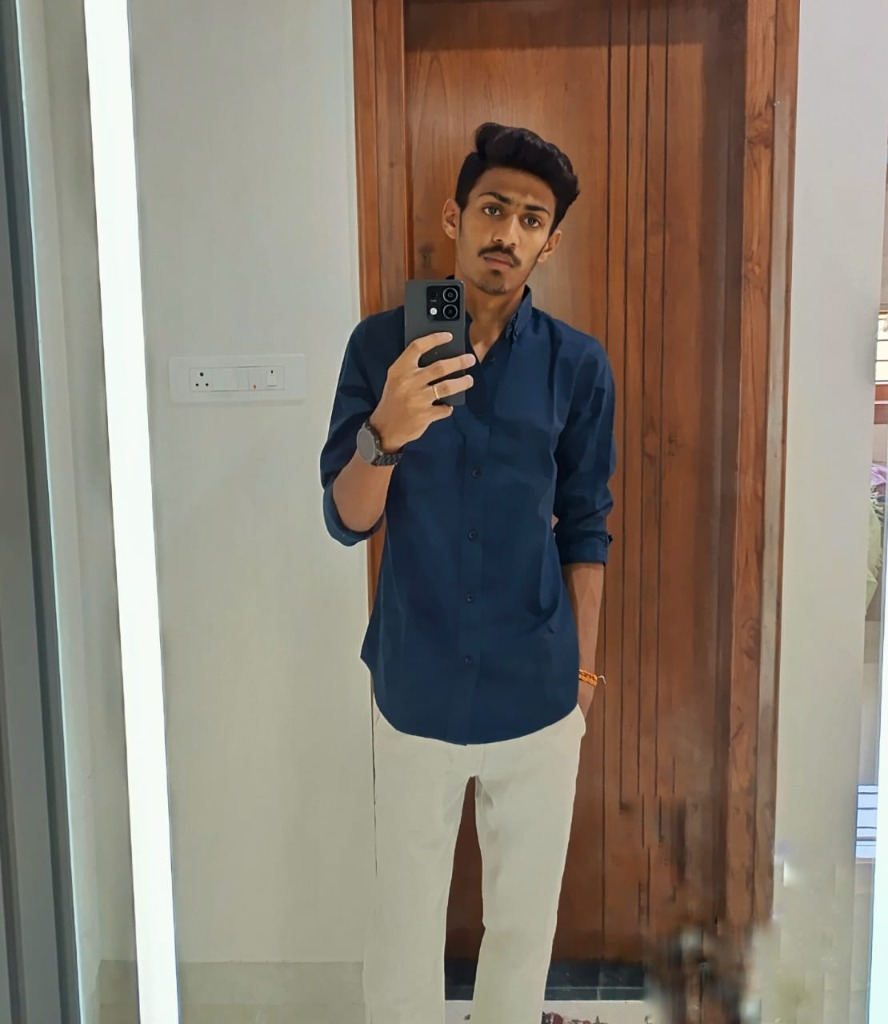
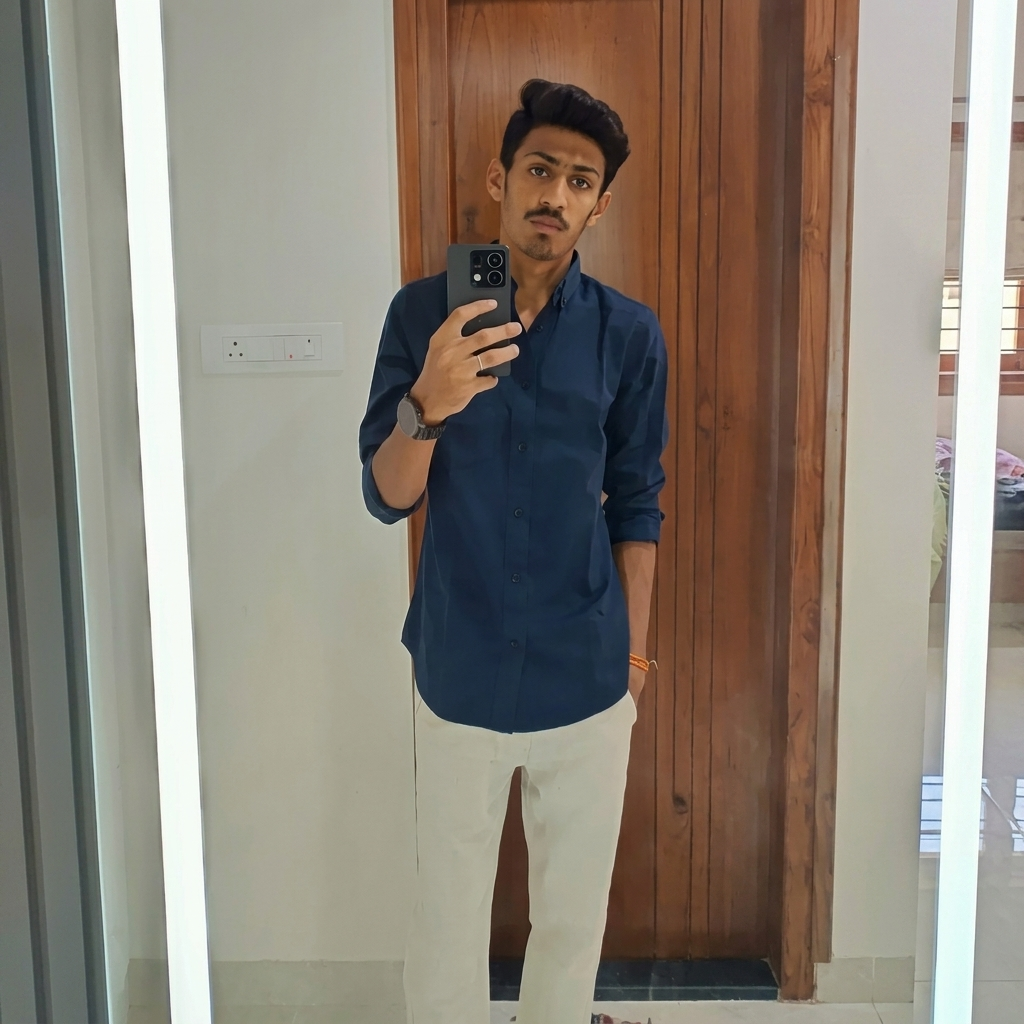
Refine profile photo background and optimize portrait framing

diff --git a/styles.css b/styles.css
@@ -660,7 +660,7 @@ button {
   width: 100%;
   height: 100%;
   object-fit: cover;
-  object-position: center top;
+  object-position: center 10%;
 }
 
 .about-image::after {
